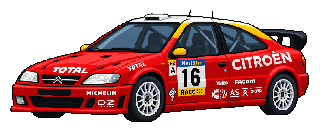
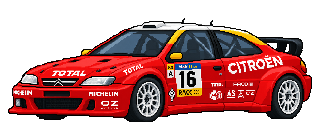
Correct four racing bodies using real competition references and road proportions

diff --git a/public/previews/race-cars/album.js b/public/previews/race-cars/album.js
@@ -13,7 +13,7 @@ function bodywork(m){if(m.bodyworkDetails)return m.bodyworkDetails;const s=m.bod
 function links(m){$('source-list').replaceChildren();const rows=[...(m.sources||[]),...(m.imageReferences||[]).map(r=>({title:r.title||'Fotografia di riferimento',url:r.page||r.url}))];const seen=new Set();for(const r of rows){let u;try{u=new URL(r.url);if(!['http:','https:'].includes(u.protocol)||seen.has(u.href))continue;}catch{continue;}seen.add(u.href);const li=document.createElement('li'),a=document.createElement('a');a.href=u.href;a.target='_blank';a.rel='noopener noreferrer';a.textContent=r.title||u.hostname;li.append(a);$('source-list').append(li);}if(!rows.length){const li=document.createElement('li');li.textContent='Identità del modello ricavata dalle fotografie originali del catalogo.';$('source-list').append(li);}}
 function metrics(m){$('price').textContent='Costo proposto: '+euro(m.price)+' · allestimento permanente, utilizzabile in tutte le gare.';$('metrics').replaceChildren();for(const [label,key,format]of [['Potenza','cv',v=>v+' CV'],['Coppia','nm',v=>v+' Nm'],['Peso','kg',v=>v.toLocaleString('it-IT')+' kg'],['Indice prestazioni','performanceIndex',String],['Velocità teorica','topSpeedKmh',v=>v.toFixed(1)+' km/h'],['Frenata teorica','brakingMs2',v=>v.toFixed(2)+' m/s²']]){const tr=document.createElement('tr');for(const value of [label,format(m.before[key]),format(m.after[key])]){const td=document.createElement('td');td.textContent=value;tr.append(td);}$('metrics').append(tr);}}
 function openModel(m){active=m;$('model-picker').value=m.key;$('model-name').textContent=`${m.brand} ${m.name}`;$('reference').textContent=m.reference+' · '+m.referenceYear;$('classification').textContent=kind(m);$('stock-preview').src=m.stockImage;$('stock-preview').alt=`${m.brand} ${m.name} stradale`;$('race-preview').hidden=!m.image;$('art-pending').hidden=Boolean(m.image);if(m.image){$('race-preview').src=m.image;$('race-preview').alt=`${m.brand} ${m.name} · ${m.reference}`;}else $('race-preview').removeAttribute('src');$('bodywork').replaceChildren();for(const text of bodywork(m)){const li=document.createElement('li');li.textContent=text;$('bodywork').append(li);}$('history-note').textContent=m.classification==='club'?'Questo allestimento è una preparazione plausibile nell’ambientazione del 2002, non una versione ufficiale mai costruita.':(m.classification==='prototype'?'Il riferimento è un prototipo documentato: non gli vengono attribuite gare o vittorie inesistenti. ':'')+(m.notes||'Il disegno riprende l’aspetto della vettura di riferimento; la conversione del gioco mantiene il proprio motore.');links(m);metrics(m);const r=reviews[m.key];$('review-state').value=status(m);$('note').value=r?.note||'';$('saved').textContent=stale(m)?'Immagine aggiornata: note precedenti conservate, valutazione da rivedere.':'';for(const b of $('model-list').children)b.setAttribute('aria-current',String(b.dataset.key===m.key));const at=filtered.findIndex(x=>x.key===m.key);$('position').textContent=at>=0?`${at+1} / ${filtered.length}`:'';$('previous').disabled=at<=0;$('next').disabled=at<0||at>=filtered.length-1;history.replaceState(null,'',shareURL(m));}
-function filterModels(){const search=$('search').value.trim().toLocaleLowerCase('it'),brand=$('brand').value,f=$('filter').value;filtered=models.filter(m=>(!brand||m.brand===brand)&&(!search||`${m.brand} ${m.name} ${m.reference}`.toLocaleLowerCase('it').includes(search))&&(f==='all'||f==='updated'&&m.reviewBatch==='details-10-2026-10-28'||f==='ready'&&m.image||f==='historic'&&['historic','prototype'].includes(m.classification)||f==='interpretation'&&['club','inspired'].includes(m.classification)||['pending','approved','fix'].includes(f)&&status(m)===f));$('results').textContent=filtered.length+' modelli';$('model-list').replaceChildren();$('model-picker').replaceChildren();document.querySelector('.selected').hidden=!filtered.length;for(const m of filtered){const b=document.createElement('button');b.type='button';b.dataset.key=m.key;b.textContent=`${m.brand} ${m.name}`;b.addEventListener('click',()=>openModel(m));$('model-list').append(b);$('model-picker').append(new Option(`${m.brand} ${m.name}`,m.key));}if(filtered.length)openModel(filtered.find(m=>m.key===active?.key)||filtered[0]);else{$('previous').disabled=true;$('next').disabled=true;$('position').textContent='Nessun modello';}}
+function filterModels(){const search=$('search').value.trim().toLocaleLowerCase('it'),brand=$('brand').value,f=$('filter').value;filtered=models.filter(m=>(!brand||m.brand===brand)&&(!search||`${m.brand} ${m.name} ${m.reference}`.toLocaleLowerCase('it').includes(search))&&(f==='all'||f==='updated'&&m.reviewBatch==='body-four-2026-10-28'||f==='ready'&&m.image||f==='historic'&&['historic','prototype'].includes(m.classification)||f==='interpretation'&&['club','inspired'].includes(m.classification)||['pending','approved','fix'].includes(f)&&status(m)===f));$('results').textContent=filtered.length+' modelli';$('model-list').replaceChildren();$('model-picker').replaceChildren();document.querySelector('.selected').hidden=!filtered.length;for(const m of filtered){const b=document.createElement('button');b.type='button';b.dataset.key=m.key;b.textContent=`${m.brand} ${m.name}`;b.addEventListener('click',()=>openModel(m));$('model-list').append(b);$('model-picker').append(new Option(`${m.brand} ${m.name}`,m.key));}if(filtered.length)openModel(filtered.find(m=>m.key===active?.key)||filtered[0]);else{$('previous').disabled=true;$('next').disabled=true;$('position').textContent='Nessun modello';}}
 function renderBoard(){if($('board').children.length||!models.length)return;for(const m of models){const b=document.createElement('button'),img=document.createElement('img'),label=document.createElement('span'),tag=document.createElement('small');b.type='button';img.width=320;img.height=128;img.loading='lazy';img.alt=m.brand+' '+m.name+' da corsa';if(m.image)img.src=m.image;else img.hidden=true;label.textContent=m.brand+' '+m.name;tag.textContent=m.image?kind(m):'Disegno in preparazione';b.append(img,label,tag);b.addEventListener('click',()=>{$('brand').value='';$('search').value='';$('filter').value='all';filterModels();openModel(m);$('all-cars').open=false;$('model-name').tabIndex=-1;$('model-name').focus();$('model-name').scrollIntoView({block:'start'});});$('board').append(b);}}
 $('all-cars').addEventListener('toggle',()=>{if($('all-cars').open)renderBoard();});
 function correctionText(){const fixes=models.filter(m=>status(m)==='fix');return ['POKETURISMO · REVISIONE PREPARAZIONI DA CORSA',`${fixes.length} modelli da correggere`,'',...fixes.flatMap(m=>[`#${m.id} · ${m.brand} ${m.name}`,`Preparazione: ${m.reference}`,reviews[m.key]?.note?.trim()||'(Nessuna nota)',shareURL(m),''])].join('\n');}

diff --git a/public/previews/race-cars/index.html b/public/previews/race-cars/index.html
@@ -2,7 +2,7 @@
 <html lang="it"><head><meta charset="utf-8"><meta name="viewport" content="width=device-width,initial-scale=1"><meta name="robots" content="noindex,nofollow"><title>Poketurismo · Preparazioni da corsa</title><link rel="stylesheet" href="./album.css"></head>
 <body><main class="window"><header class="title">▣ Officina del paese · Reparto corse</header><div class="body"><h1>Album delle preparazioni da corsa</h1><p>Carrozzerie, cerchi, aerodinamica e livree d’epoca. Confronta ogni preparazione con la tua auto stradale e segna cosa vuoi correggere.</p><p class="notice"><strong>Anteprima da valutare.</strong> La trasformazione non è ancora acquistabile nel gioco. CV e coppia restano quelli della propria auto.</p><p id="progress" role="status">Apertura dell’album…</p><p id="error" role="alert" hidden></p>
 <details id="all-cars" class="all-cars"><summary>Colpo d’occhio · tutti i bozzetti</summary><div id="board" class="board"></div></details>
-<div class="layout"><aside aria-label="Scegli una preparazione"><label>Cerca marca o modello<input id="search" type="search" autocomplete="off" placeholder="Es. Fiat, M3, Delta…"></label><label>Marca<select id="brand"><option value="">Tutte le marche</option></select></label><label>Mostra<select id="filter"><option value="all">Tutte le preparazioni</option><option value="updated">Aggiornate · 10 modelli</option><option value="ready">Immagini pronte</option><option value="historic">Riferimenti storici</option><option value="interpretation">Preparazioni del club</option><option value="pending">Da valutare</option><option value="approved">Vanno bene</option><option value="fix">Da correggere</option></select></label><p id="results"></p><label class="mobile-picker">Modello<select id="model-picker"></select></label><div id="model-list" aria-label="Modelli disponibili"></div><div class="actions"><button id="export" type="button">Esporta correzioni</button><button id="copy-list" type="button">Copia elenco</button></div><p class="small">Le valutazioni restano su questo browser. Esporta l’elenco per conservarlo o mandarmelo in chat.</p></aside>
+<div class="layout"><aside aria-label="Scegli una preparazione"><label>Cerca marca o modello<input id="search" type="search" autocomplete="off" placeholder="Es. Fiat, M3, Delta…"></label><label>Marca<select id="brand"><option value="">Tutte le marche</option></select></label><label>Mostra<select id="filter"><option value="all">Tutte le preparazioni</option><option value="updated">Aggiornate · 4 modelli</option><option value="ready">Immagini pronte</option><option value="historic">Riferimenti storici</option><option value="interpretation">Preparazioni del club</option><option value="pending">Da valutare</option><option value="approved">Vanno bene</option><option value="fix">Da correggere</option></select></label><p id="results"></p><label class="mobile-picker">Modello<select id="model-picker"></select></label><div id="model-list" aria-label="Modelli disponibili"></div><div class="actions"><button id="export" type="button">Esporta correzioni</button><button id="copy-list" type="button">Copia elenco</button></div><p class="small">Le valutazioni restano su questo browser. Esporta l’elenco per conservarlo o mandarmelo in chat.</p></aside>
 <section class="selected" aria-label="Confronto stradale e corsa"><nav class="navigation"><button id="previous" type="button">← Precedente</button><span id="position"></span><button id="next" type="button">Successiva →</button></nav><h2 id="model-name">Scegli un modello</h2><p id="reference"></p><p id="classification" class="small"></p>
 <div class="comparison"><figure><div class="image-scroll"><img id="stock-preview" width="320" height="128" alt="Versione stradale"></div><figcaption>Stradale · immagine attuale</figcaption></figure><figure><div class="image-scroll"><img id="race-preview" width="320" height="128" alt="Preparazione da corsa" hidden><p id="art-pending" hidden>Disegno in preparazione.</p></div><figcaption>Preparazione da corsa · anteprima</figcaption></figure></div>
 <div class="actions"><button id="zoom" type="button" aria-pressed="false">Ingrandisci pixel art ×2</button><button id="copy-link" type="button">Copia collegamento</button></div>
@@ -10,4 +10,4 @@
 <details class="specs"><summary>Proposta di costo e assetto</summary><p id="price"></p><p class="small">Valori di confronto con auto di serie, condizioni al 100% e 20 L di benzina normale. I migliori componenti già montati non ricevono una seconda volta gli stessi benefici.</p><table><thead><tr><th>Voce</th><th>Prima</th><th>Dopo</th></tr></thead><tbody id="metrics"></tbody></table><p class="small">Nessun motore da gara viene trapiantato: potenza e coppia restano invariate. Il peso ridotto aiuta i rilanci; freni e assetto migliorano il controllo. L’aerodinamica può costare un po’ di allungo.</p></details>
 <details class="sources"><summary>Storia e fotografie di riferimento</summary><p id="history-note"></p><ul id="source-list"></ul></details>
 <section class="review"><h3>La tua valutazione</h3><label>Risultato<select id="review-state"><option value="pending">Da valutare</option><option value="approved">Va bene</option><option value="fix">Da correggere</option></select></label><label>Cosa sistemare<textarea id="note" maxlength="1800" rows="4" placeholder="Es. allargamenti, paraurti, fari, spoiler, cerchi o livrea…"></textarea></label><button id="confirm-review" type="button">Conferma valutazione</button><p id="saved" class="small" role="status"></p></section>
-</section></div><div id="copy-fallback" hidden><label>Testo da copiare<textarea id="copy-text" rows="9" readonly></textarea></label></div><footer><a href="/map">← Torna al gioco</a><a href="/previews/pixel-cars/">Album auto stradali</a><span id="notice" role="status"></span></footer></div></main><noscript>Attiva JavaScript per sfogliare le preparazioni.</noscript><script type="module" src="./album.js?v=3"></script></body></html>
+</section></div><div id="copy-fallback" hidden><label>Testo da copiare<textarea id="copy-text" rows="9" readonly></textarea></label></div><footer><a href="/map">← Torna al gioco</a><a href="/previews/pixel-cars/">Album auto stradali</a><span id="notice" role="status"></span></footer></div></main><noscript>Attiva JavaScript per sfogliare le preparazioni.</noscript><script type="module" src="./album.js?v=4"></script></body></html>

diff --git a/docs/CONVERSIONI_DA_CORSA_ANTEPRIMA.md b/docs/CONVERSIONI_DA_CORSA_ANTEPRIMA.md
@@ -53,3 +53,9 @@ Filtro «Aggiornate · 34 modelli» nel medesimo album. Cache delle PNG distinta
 Appunti dell'utente conservati in `tools/race-conversions/review-10.json`; batch `details-10-2026-10-28`, filtro «Aggiornate · 10 modelli». Corretti soltanto Saxo, Xsara, ZX, Puma, Sierra RS500, Hyundai Coupé, 106, 306, Mégane e Ibiza; le altre 190 PNG restano identiche. Saxo a revisione 2, Xsara a revisione 4 dopo ulteriore controllo della camera, altre otto a revisione 3. Generazioni individuali con image_gen integrato; prompt e riferimenti completi nei record. Basi e fotografie in `/home/klaro/.backups/poketurismo/race-review3-2026-10-28`.
 
 Le stradali forniscono il riferimento della prospettiva per Xsara/ZX/106/306/Ibiza e dell'alettone per Sierra. Saxo senza rivetti e con raccordi ispirati alla Super1600, conservando generazione e livrea del gioco (interpretazione dichiarata, non replica della facelift). Puma senza paraspruzzi e con lip più pronunciato; Hyundai con lip integro; Mégane con spoiler corretto da foto anteriori e posteriori; Ibiza da asfalto, senza persone e senza rete protettiva nella presa del paraurti. Xsara senza pilota/copilota. Le fotografie completano i dettagli dei kit senza imporre il loro angolo di ripresa. Valutazioni locali conservate; solo le approvazioni riferite alle immagini cambiate tornano da rivedere. Nessuna nuova funzione acquistabile o scrittura nel database.
+
+## Revisione dei quattro modelli · 28 ottobre 2026
+
+`tools/race-conversions/review-4.json` registra le nuove richieste su Saxo, Xsara, Mégane e Ibiza. Batch `body-four-2026-10-28`, filtro «Aggiornate · 4 modelli». Altre 196 PNG conservate byte per byte. Saxo a revisione 3, Xsara a revisione 5, Mégane e Ibiza a revisione 4. Quattro generazioni individuali image_gen integrato, prompt e provenienza nei record per modello. Backup di basi e riferimenti in `/home/klaro/.backups/poketurismo/race-review4-2026-10-28`.
+
+Saxo ridisegnata seguendo la vera Super1600, comprese carrozzeria e livrea rossa Citroën/Total/PlayStation n.53; riferimento della camera dalla stradale. Xsara con parafanghi e fianchi più ampi, confrontati con fotografie della vera Kit Car e dettagli del kit. Mégane con coda e parafanghi posteriori rivisti da fotografie reali posteriori e a tre quarti (Ourense e Tour de Corse); frontale e livrea conservati. Ibiza con proporzioni e prospettiva della stradale, mantenendo kit, livrea e assetto da asfalto già valutati. Fonti delle foto consultabili nelle schede. Abitacoli senza persone; note locali preservate, valutazioni da rivedere solo per i quattro sprite cambiati. Nessun acquisto attivato o modifica al database.

diff --git a/AGENTS.md b/AGENTS.md
@@ -1,5 +1,7 @@
 # Poketurismo: istruzioni di lavoro
 
+- Revisione corsa quattro del 28 ottobre: `tools/race-conversions/review-4.json`, batch `body-four-2026-10-28`, filtro Aggiornate · 4 modelli. Saxo Super1600 rossa (rev3), Xsara con fianchi più larghi (rev5), coda Mégane e proporzioni Ibiza (rev4). Altre 196 PNG invariate, note preservate, acquisto ancora non attivo. Dettagli in `docs/CONVERSIONI_DA_CORSA_ANTEPRIMA.md`.
+
 - Revisione corsa 10 dettagli del 28 ottobre: `tools/race-conversions/review-10.json`, batch `details-10-2026-10-28` e filtro Aggiornate · 10 modelli. 190 altre PNG invariate; prospettiva delle stradali prioritaria, abitacoli senza piloti, Sierra con ala stradale. Saxo rev2, Xsara rev4, altre otto rev3. Note locali conservate, conversione ancora solo in anteprima; leggere `docs/CONVERSIONI_DA_CORSA_ANTEPRIMA.md`.
 
 - Revisione corsa 34 del 28 ottobre: `tools/race-conversions/review-34.json`, soli 34 sprite a revisione 2, batch `historical-34-2026-10-28` e filtro Aggiornate nell’album. Repliche da fotografie reali; 288/F50 con livrea immaginaria dichiarata, Celica ZZT231 JGTC del 2003 esplicitamente fuori riferimento. Non azzerare note locali, non cambiare le altre 166 immagini o attivare acquisti. Dettagli in `docs/CONVERSIONI_DA_CORSA_ANTEPRIMA.md`.
